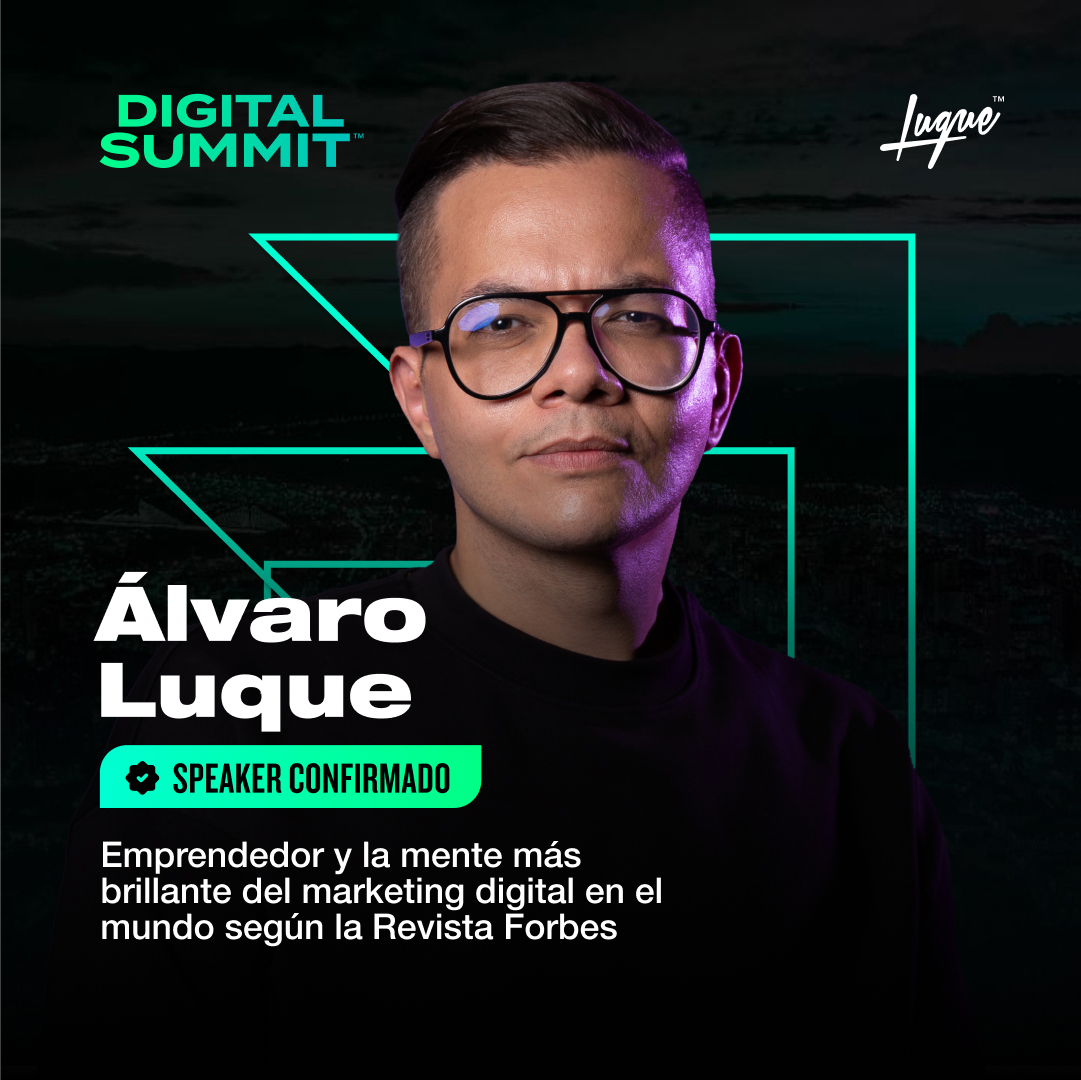
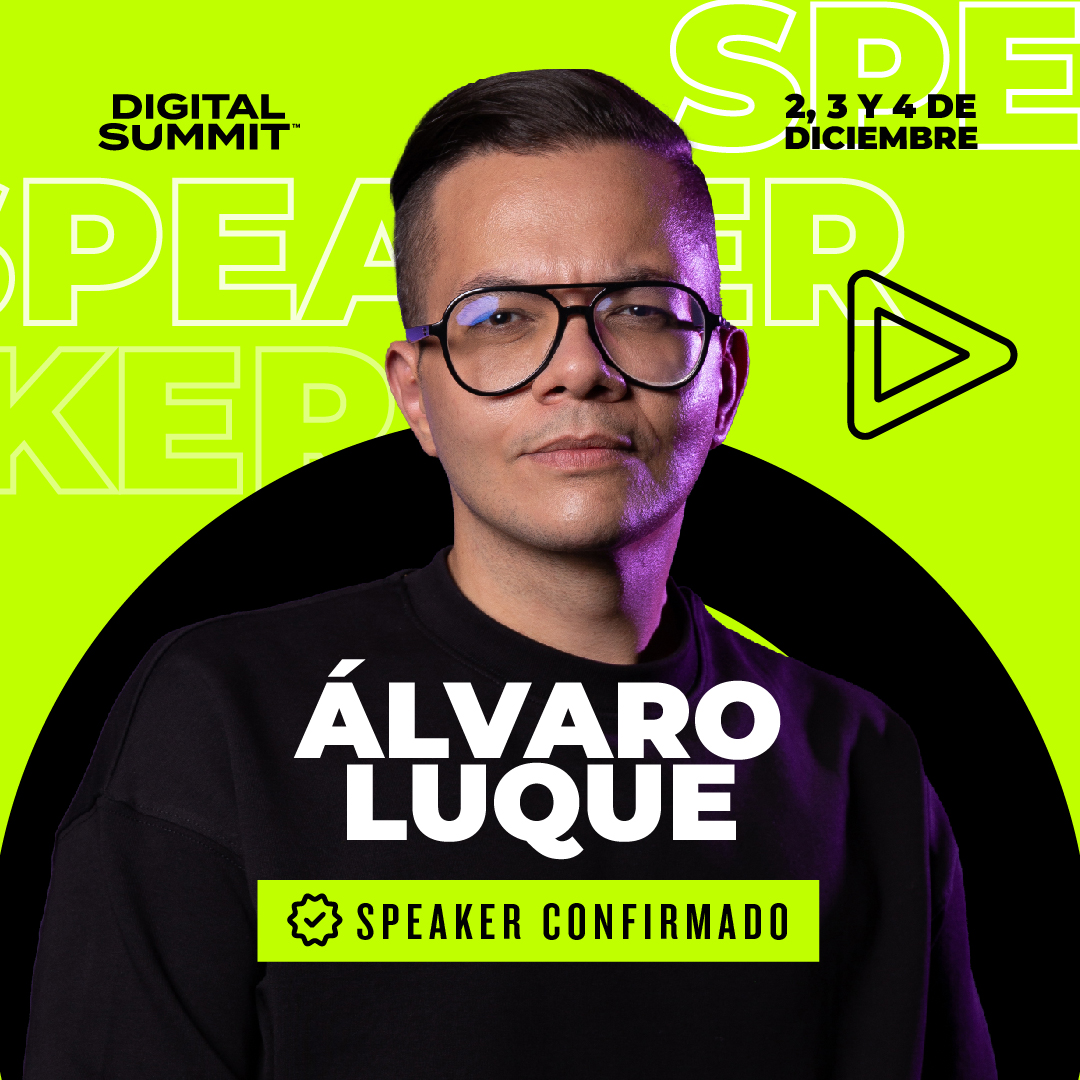
upd

diff --git a/DS2/speakers/speakers.html b/DS2/speakers/speakers.html
@@ -32,7 +32,7 @@
     <div class="card">
       <div class="carousel">
         <img src="Alvaro.jpg" alt="Alvaro" class="carousel-image active">
-        <img src="Alvaro.jpg" alt="Alvaro Info" class="carousel-image">
+        <img src="Alvaroinfo.jpg" alt="Alvaro Info" class="carousel-image">
         <button class="prev-btn" onclick="prevSlide(this)">&#10094;</button>
         <button class="next-btn" onclick="nextSlide(this)">&#10095;</button>
       </div>
@@ -42,7 +42,7 @@
     <div class="card">
       <div class="carousel">
         <img src="Laura.jpg" alt="Laura" class="carousel-image active">
-        <img src="Alvaro.jpg" alt="Laura Info" class="carousel-image">
+        <img src="Laurainfo.jpg" alt="Laura Info" class="carousel-image">
         <button class="prev-btn" onclick="prevSlide(this)">&#10094;</button>
         <button class="next-btn" onclick="nextSlide(this)">&#10095;</button>
       </div>
